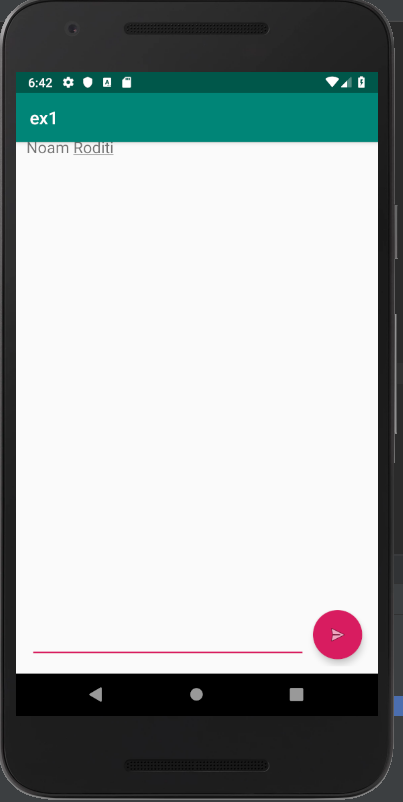
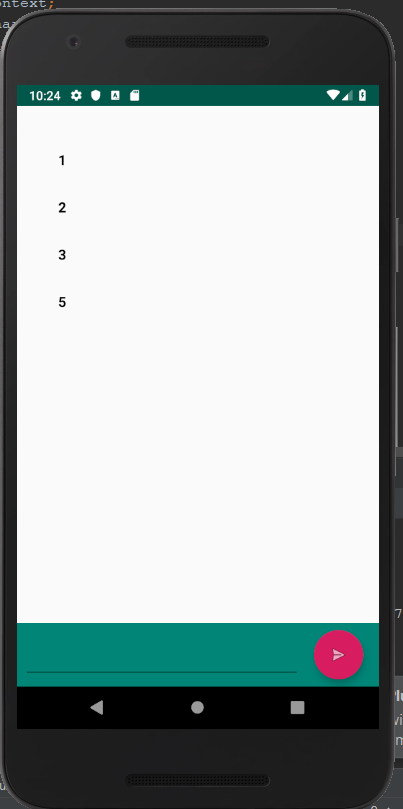
added all changed files for ex3

diff --git a/app/src/main/java/com/example/ex1/MainActivity.java b/app/src/main/java/com/example/ex1/MainActivity.java
@@ -2,7 +2,9 @@ package com.example.ex1;
 
 import android.app.Activity;
 import android.content.Context;
+import android.content.SharedPreferences;
 import android.os.Parcelable;
+import android.preference.PreferenceManager;
 import android.support.design.widget.FloatingActionButton;
 import android.support.v7.app.AppCompatActivity;
 import android.os.Bundle;
@@ -60,25 +62,32 @@ public class MainActivity extends Activity {
                 mAdapter.notifyDataSetChanged();
             }
         });
-
+        SharedPreferences mSharedPreference1 =   PreferenceManager.getDefaultSharedPreferences(this);
+        messageList.clear();
+        int size = mSharedPreference1.getInt(CustomApplicationClass.MESSAGECOUNT, 0);
+        for(int i=0;i<size;i++)
+        {
+            Message messageToAdd = new Message(mSharedPreference1.getString("Status_" + i, null)) ;
+            messageList.add(messageToAdd);
+            mAdapter.notifyDataSetChanged();
+        }
     }
 
     @Override
     protected void onSaveInstanceState(Bundle outState) {
         super.onSaveInstanceState(outState);
         outState.putCharSequence(EDIT_TEXT, editText.getText());
-        outState.putParcelableArrayList("key",(ArrayList<? extends Parcelable>) messageList);
+        SharedPreferences prefs = PreferenceManager.getDefaultSharedPreferences(this);
+        prefs.edit().putInt(CustomApplicationClass.MESSAGECOUNT,messageList.size()).apply();
+        for(int i=0;i<messageList.size();i++)
+        {
+            prefs.edit().putString("Status_" + i, messageList.get(i).getMessage()).apply();
+        }
     }
 
     @Override
     protected void onRestoreInstanceState(Bundle savedInstanceState) {
         super.onRestoreInstanceState(savedInstanceState);
         editText.setText(savedInstanceState.getCharSequence(EDIT_TEXT));
-        List<Message> list = savedInstanceState.getParcelableArrayList("key");
-        for (int i = 0 ; i <  list.size() ; i ++){
-            Message MessageToAdd = list.get(i);
-            messageList.add(MessageToAdd);
-            mAdapter.notifyDataSetChanged();
-        }
     }
 }

diff --git a/app/src/main/java/com/example/ex1/MyAdapter.java b/app/src/main/java/com/example/ex1/MyAdapter.java
@@ -1,10 +1,13 @@
 package com.example.ex1;
 
+import android.app.AlertDialog;
+import android.content.DialogInterface;
 import android.support.v7.widget.RecyclerView;
 import android.view.LayoutInflater;
 import android.view.View;
 import android.view.ViewGroup;
 import android.widget.TextView;
+import android.widget.Toast;
 
 import java.util.List;
 
@@ -40,6 +43,32 @@ public class MyAdapter extends RecyclerView.Adapter<MyAdapter.MessageViewHolder>
         public MessageViewHolder(View view) {
             super(view);
             message = (TextView) view.findViewById(R.id.message);
+            view.setOnLongClickListener(new View.OnLongClickListener() {
+                @Override
+                public boolean onLongClick(View v) {
+                    AlertDialog.Builder alertbuilder= new AlertDialog.Builder(v.getContext());
+                    alertbuilder.setTitle("Confirmation");
+                    alertbuilder.setMessage("Are you sure you want to delete this message?");
+                    alertbuilder.setPositiveButton("yes",
+                            new DialogInterface.OnClickListener() {
+                                @Override
+                                public void onClick(DialogInterface dialog, int which) {
+                                    messageList.remove(getAdapterPosition());
+                                    notifyItemRemoved(getAdapterPosition());
+                                    notifyItemRangeChanged(getAdapterPosition(),messageList.size());
+                                }
+                            });
+                    alertbuilder.setNegativeButton("No",
+                            new DialogInterface.OnClickListener() {
+                                @Override
+                                public void onClick(DialogInterface dialog, int which) {
+                                }
+                            });
+                    AlertDialog alertDialog = alertbuilder.create();
+                    alertDialog.show();
+                    return false;
+                }
+            });
         }
     }
 }

diff --git a/app/src/main/java/com/example/ex1/CustomApplicationClass.java b/app/src/main/java/com/example/ex1/CustomApplicationClass.java
@@ -1,4 +1,28 @@
 package com.example.ex1;
 
-public class CustomApplicationClass {
+import android.app.Application;
+import android.content.Context;
+import android.content.SharedPreferences;
+import android.preference.PreferenceManager;
+import android.util.Log;
+
+public class CustomApplicationClass extends Application {
+    private static Context appContext;
+    public static final String MESSAGECOUNT = "MESSAGE_COUNT";
+    @Override
+    public void onCreate() {
+        super.onCreate();
+        appContext = getApplicationContext();
+        LogNumOfMessages();
+
+    }
+    public static Context getAppContext() {
+        return appContext;
+    }
+
+    public static void LogNumOfMessages() {
+        Context context = CustomApplicationClass.getAppContext();
+        SharedPreferences prefs = PreferenceManager.getDefaultSharedPreferences(context);
+        Log.i("MESSAGE_COUNT", Integer.toString(prefs.getInt(MESSAGECOUNT,0)));
+    }
 }

diff --git a/app/src/main/java/com/example/ex1/Message.java b/app/src/main/java/com/example/ex1/Message.java
@@ -1,11 +1,17 @@
 package com.example.ex1;
 
+import android.arch.persistence.room.Entity;
+import android.arch.persistence.room.PrimaryKey;
 import android.os.Parcel;
 import android.os.Parcelable;
+import android.support.annotation.NonNull;
 
+@Entity
 public class Message implements Parcelable {
+    @NonNull
     private String message;
-
+    @PrimaryKey
+    private int Location;
     @Override
     public int describeContents() {
         return 0;

diff --git a/app/src/main/java/com/example/ex1/ClickListenerHelper.java b/app/src/main/java/com/example/ex1/ClickListenerHelper.java
@@ -1,4 +1,7 @@
 package com.example.ex1;
 
+import android.view.View;
+
 public interface ClickListenerHelper {
+    void onLongClick(View view, int position);
 }
